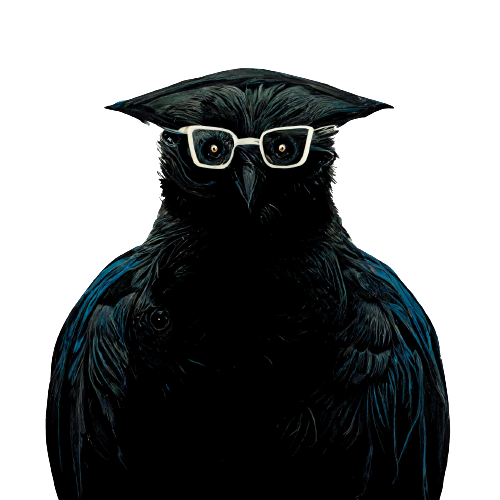
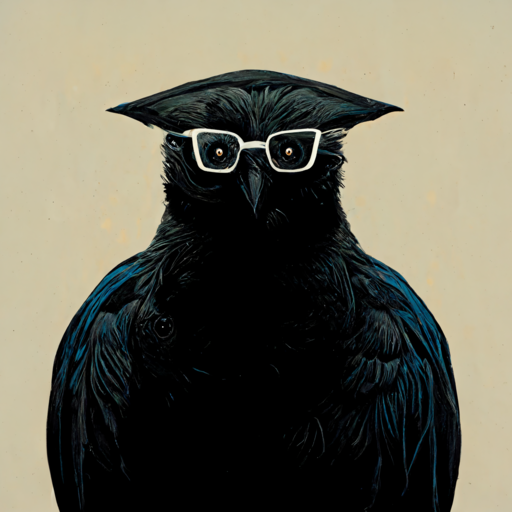
add updated detail

diff --git a/about-me.html b/about-me.html
@@ -36,24 +36,44 @@
 
     <section id="Description">
         <h2>A Short Description</h2>
-        <p>My name is Rendya Yuschak, also known online as Haskucy. I am a developer with a passion for programming, mathematics, and problem-solving. While this website is still a work in progress, it reflects my enthusiasm for technology and continuous learning.</p>
+        <p>My name is Rendya Yuschak, also known online as Haskucy. I hold a Bachelor's in Computer Science from the University of Indonesia and currently co-found Dr. Komputer, an IT support and hardware repair business in Cikarang, Indonesia. My work spans web development, machine learning, and IT consulting, with a focus on pragmatic, reliable solutions.</p>
 
         <div class="image-container">
-            <img src="haskucy pp.png" width="20%" alt="Image Description">
+            <img src="haskucy pp transparent.png" width="20%" alt="Image Description">
         </div>
         <figcaption>My usual profile picture</figcaption>
 
+        <section id="skills">
+            <h2>Skills and Expertise</h2>
+            <ul>
+                <li><b>General Programming & Software Engineering</b>: Proficient in multiple languages including Python, Java, JavaScript, TypeScript, C, C#, and Haskell, with a solid foundation in algorithm design, functional programming, and numerical analysis.</li>
+                <li><b>Web Development & Database Management</b>: Experienced in building web applications using frameworks such as Django, Laravel, Node.js, React.js, and Spring Boot. Skilled in managing databases like PostgreSQL, MongoDB, Redis, and Hadoop, ensuring robust and scalable solutions.</li>
+                <li><b>Data Science, Machine Learning & AI</b>: Competent in employing TensorFlow, PyTorch, Matplotlib, and Pandas to tackle projects in machine learning and artificial intelligence, along with a keen interest in data-driven research and analysis.</li>
+                <li><b>IT Support & Business Operations</b>: Experienced in providing IT support and hardware repair, as demonstrated by co-founding an IT support business, with hands-on experience in system maintenance, troubleshooting, and business management.</li>
+                <li><b>UI/UX & Multimedia Design</b>: Adept at designing intuitive user interfaces and digital content using tools like Figma, Adobe XD, Photoshop, and Illustrator, complemented by experience in video editing and multimedia production.</li>
+            </ul>
+        </section>
+
         <h2>Background</h2>
-        <p>I specialize in web development, machine learning, and data science. My technical expertise spans front-end and back-end development, database management, and scientific computing. I am also deeply interested in mathematics, particularly combinatorics, logic, and discrete math, which I integrate into my technical projects whenever possible.</p>
+            <p>I grew up in Bekasi and later moved to Cikarang, where I currently reside. I'm a flexible and easy-going person, comfortable adapting to different situations and working with people from various backgrounds. I enjoy understanding how things work, whether it's through technology, problem-solving, or exploring new ideas.</p>
+            <p>I hold a Bachelor's degree in Computer Science from the University of Indonesia. My work ranges from web development and machine learning to IT support and hardware repair, which I apply in my role as co-founder of Dr. Komputer. I enjoy tackling challenges, finding practical solutions, and learning something new along the way.</p>
+            <p>Outside of work, I'm curious about a lot of things—whether it's mathematics, technology, or simple everyday details most people overlook. I value honesty, effort, and keeping things straightforward, both in life and in work.</p>
+
 
         <h2>Interests and Aspirations</h2>
-        <p>Beyond coding, I am fascinated by natural language processing, data visualization, and math proof verification programs like Lean 4. I also explore the theory of understanding knowledge, including epistemology and metacognition. My ultimate goal is to contribute meaningfully to technology and education, bridging the gap between abstract concepts and practical applications.</p>
+            <p>Beyond coding, I am fascinated by natural language processing, data visualization, and math proof verification programs like Lean 4. My curiosity extends to the theory of understanding knowledge, including epistemology, logic, and metacognition. I enjoy exploring how abstract concepts can be structured, analyzed, and applied in practical contexts.</p>
+            <p>I have a strong interest in mathematics, particularly in problem-solving, combinatorics, and the foundations of logic, both classical and non-classical. I'm also drawn to artificial intelligence, machine learning, and how systems can be designed to process information efficiently.</p>
+            <p>My ultimate goal is to contribute meaningfully to technology and education, bridging the gap between abstract theories and real-world applications. I aspire to create tools and systems that not only solve problems but also help people think, learn, and explore ideas more effectively.</p>
 
         <h2>What Drives Me</h2>
-        <p>Curiosity and a commitment to excellence drive my work. Whether solving complex problems or exploring new ideas, I strive to create impactful solutions that blend innovation with practicality.</p>
+            <p>Curiosity and a commitment to excellence drive my work. I am motivated by the desire to understand how things function, whether it's through solving complex problems, exploring new ideas, or improving existing systems. I approach challenges with a focus on practical solutions, blending technical knowledge with adaptable thinking.</p>
+            <p>My interest in problem-solving goes beyond technical tasks—I enjoy dissecting abstract concepts, analyzing patterns, and finding connections between seemingly unrelated ideas. I value clarity, efficiency, and simplicity in both thought and execution.</p>
+            <p>What keeps me going is the satisfaction of progress, the pursuit of knowledge, and the ability to create something that has real, tangible impact. Whether it’s a small fix or a large project, I find purpose in the process of making things work better.</p>
+
     </section>
 
     <footer>
+        <br>
         <p>&copy; <span id="footer-year"></span> Haskucy. All rights reserved.</p>
     </footer>
 

diff --git a/index.html b/index.html
@@ -35,30 +35,27 @@
 
     <section id="introduction">
         <h2>Introduction</h2>
-        <p>I am a programmer with focus in general programming, web development, and machine learning, and a math enthusiast with a focus on combinatorics, logic and discrete math. This platform highlights my journey, maybe as projects, or maybe just me sharing my thought.</p>
-    </section>
-
-    <section id="skills">
-        <h2>Skills and Expertise</h2>
-        <ul>
-            <li>General Programming</li>
-            <li>Web Development and Database Management</li>
-            <li>Data Science and Machine Learning</li>
-            <li>Scientific Computing</li>
-            <li>IT support</li>
-        </ul>
+        <p>I am a programmer with a focus on general programming, web development, and machine learning, paired with a dedicated interest in mathematical research and puzzle-solving. This platform highlights my journey, maybe as projects, or maybe just me sharing my thought.</p>
     </section>
 
     <section id="interests">
-        <h2>Interests</h2>
-        <p>My interests include data mining (data visualization, analysis, and machine learning), mathematics (combinatorics, logic, discrete math), natural language processing (LLMs, text normalization), and math proof verification programs like Lean 4. Additionally, I am intrigued by the theory of understanding knowledge, spanning epistemology to metacognition.</p>
+        <h2>Interest</h2>
+        <ul>
+            <li><b>Mathematical Research</b>: I'm currently exploring the <a href="https://en.wikipedia.org/wiki/Map_folding">Stamp Folding Problem</a>, with a broader interest in combinatorics, logic, and discrete mathematics.</li>
+            <li><b>Mathematical Puzzles</b>: I have been engaged with math/programming puzzle platforms such as <a href="https://projecteuler.net/archives">Project Euler</a> for quite a while, with 30 problems solved out of 930.</li>
+            <li><b>Automated Theorem Proving</b>: I'm learning Lean 4 to deepen understanding of formal proof verification and mathematical logic.</li>
+            <li><b>Machine Learning & AI</b>: I have been following developments in large language models and image processing, with an interest in data analysis and model optimization.</li>
+            <li><b>Programming</b>: Sometimes I exploring more on algorithm design and analysis, appreciating the structural elegance and problem-solving aspects of code.</li>
+            <li><b>Exploring Ideas</b>: I enjoy reading books and learning across disciplines, particularly in epistemology, metacognition, and related theoretical concepts.</li>
+            <li><b>Leisure</b>: I mostly read manga/manhwa like <i>One Piece</i>, <i>Frieren</i>, <i>Dandadan</i>, <i>The Greatest Estate Designer</i>, and many more. Occasionally I'd like to play <a href="https://www.wesnoth.org/">Wesnoth</a> in my spare time.</li>
+        </ul>
     </section>
 
     <section id="projects">
         <h2>Highlighted Projects</h2>
         <ul>
             <li>
-                Project A
+                <i>This section is currently being compiled. -Haskucy</i>
             </li>
         </ul>
     </section>
@@ -67,7 +64,7 @@
         <h2>Highlighted Articles</h2>
         <ul>
             <li>
-                Project A
+                <i>This section is currently being compiled. -Haskucy</i>
             </li>
         </ul>
     </section>
@@ -87,6 +84,7 @@
 
 
     <footer>
+        <br>
         <p>&copy; <span id="footer-year"></span> Haskucy. All rights reserved.</p>
     </footer>
 
